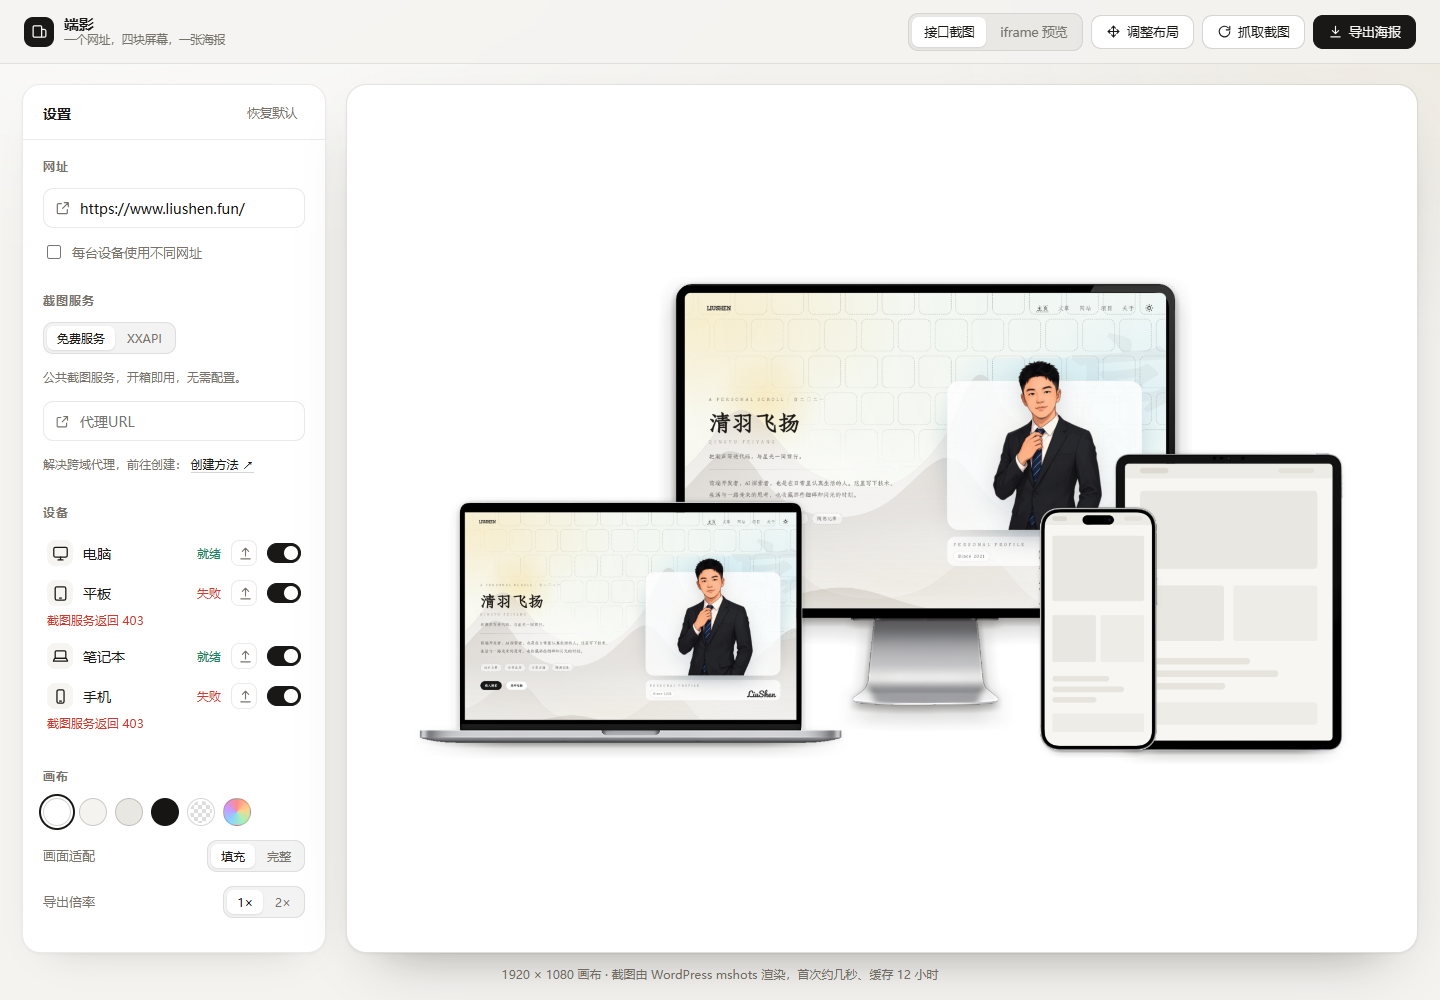
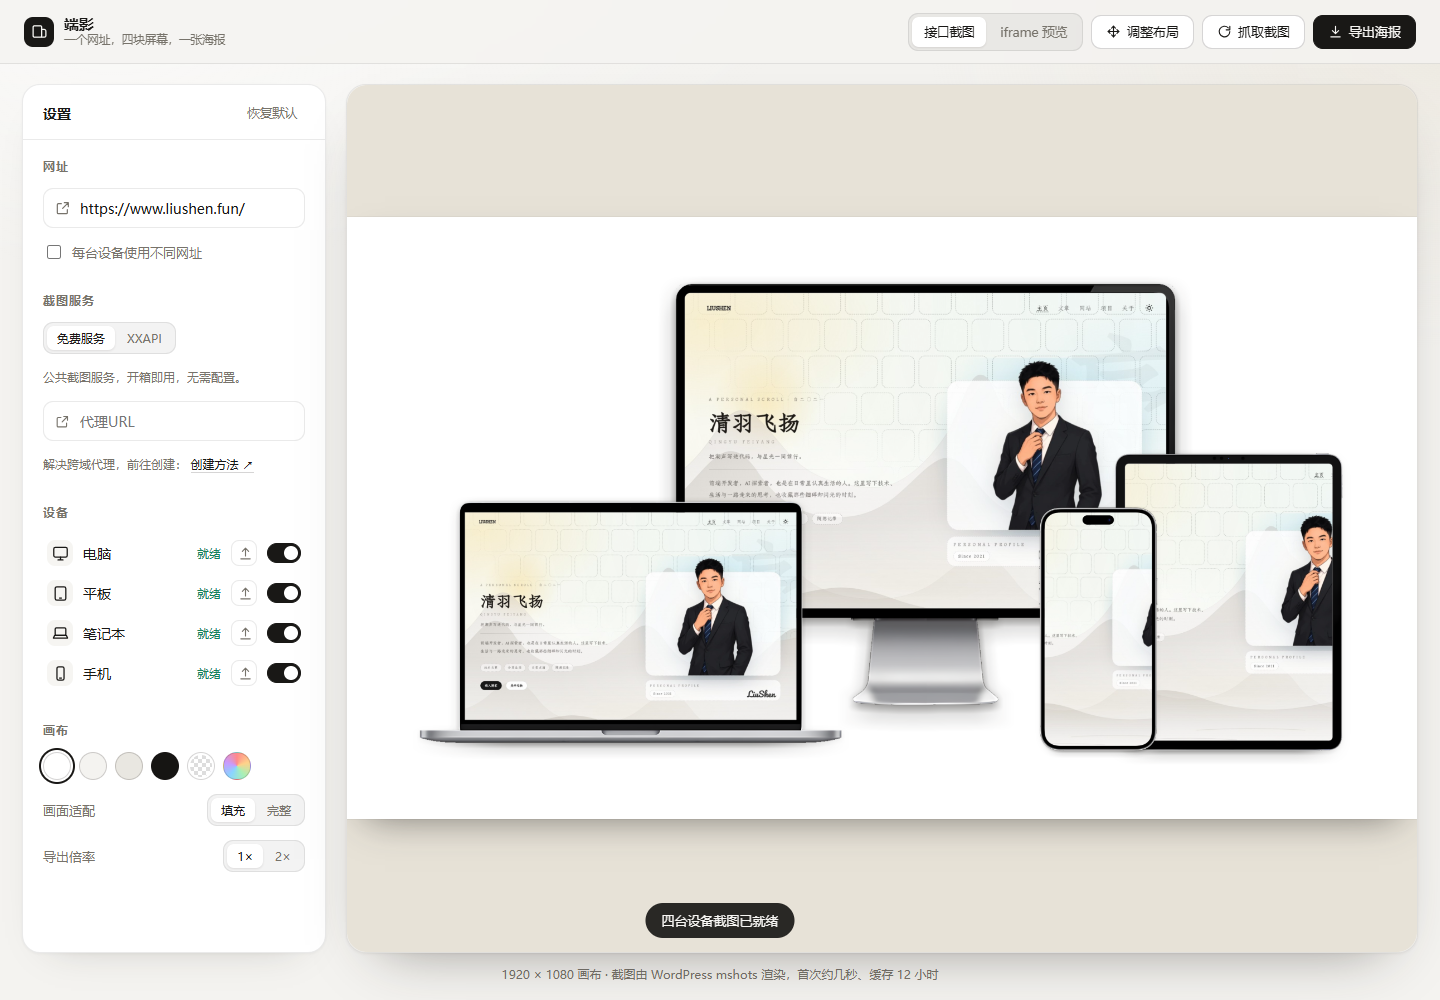
feat: 画布与桌面分层，1920×1080 的边界一眼可见
之前卡片和画布同色，看不出画布只有中间 16:9 那一块，上下留白像是「移不过去」。现在画布外铺一层更深的桌面色，画布自带投影，透明底只铺在画布上。

diff --git a/src/components/PosterStage.vue b/src/components/PosterStage.vue
@@ -199,13 +199,12 @@ onBeforeUnmount(() => {
   <div
     ref="wrapEl"
     class="stage-wrap"
-    :class="{ 'is-transparent': background === null }"
-    :style="background ? { background } : undefined"
   >
     <div
       ref="stageEl"
       class="stage"
-      :style="{ transform: `translate(-50%, -50%) scale(${stageScale})` }"
+      :class="{ 'is-transparent': background === null }"
+      :style="{ background: background || undefined, transform: `translate(-50%, -50%) scale(${stageScale})` }"
     >
       <canvas v-if="mode === 'api'" ref="canvasEl" class="poster" width="1920" height="1080" />
 
@@ -258,19 +257,11 @@ onBeforeUnmount(() => {
   min-height: 0;
   overflow: hidden;
   border-radius: inherit;
-  background: #fbfaf8;
+  /* 画布之外的桌面，颜色比画布本身深一档，1920×1080 的边界才看得出来 */
+  background: #e7e2d7;
 }
 
-.stage-wrap.is-transparent {
-  background-color: #ffffff;
-  background-image: linear-gradient(45deg, rgba(25, 24, 22, 0.05) 25%, transparent 25%),
-    linear-gradient(-45deg, rgba(25, 24, 22, 0.05) 25%, transparent 25%),
-    linear-gradient(45deg, transparent 75%, rgba(25, 24, 22, 0.05) 75%),
-    linear-gradient(-45deg, transparent 75%, rgba(25, 24, 22, 0.05) 75%);
-  background-size: 24px 24px;
-  background-position: 0 0, 0 12px, 12px -12px, -12px 0;
-}
-
+/* 画布：1920×1080 的那张纸，投影只画在纸上，导出的图里没有 */
 .stage {
   position: absolute;
   top: 50%;
@@ -278,6 +269,17 @@ onBeforeUnmount(() => {
   width: 1920px;
   height: 1080px;
   transform-origin: center center;
+  box-shadow: 0 0 0 1px rgba(25, 24, 22, 0.09), 0 28px 70px -34px rgba(25, 24, 22, 0.6);
+}
+
+.stage.is-transparent {
+  background-color: #ffffff;
+  background-image: linear-gradient(45deg, rgba(25, 24, 22, 0.05) 25%, transparent 25%),
+    linear-gradient(-45deg, rgba(25, 24, 22, 0.05) 25%, transparent 25%),
+    linear-gradient(45deg, transparent 75%, rgba(25, 24, 22, 0.05) 75%),
+    linear-gradient(-45deg, transparent 75%, rgba(25, 24, 22, 0.05) 75%);
+  background-size: 24px 24px;
+  background-position: 0 0, 0 12px, 12px -12px, -12px 0;
 }
 
 @media (max-width: 1023px) {
